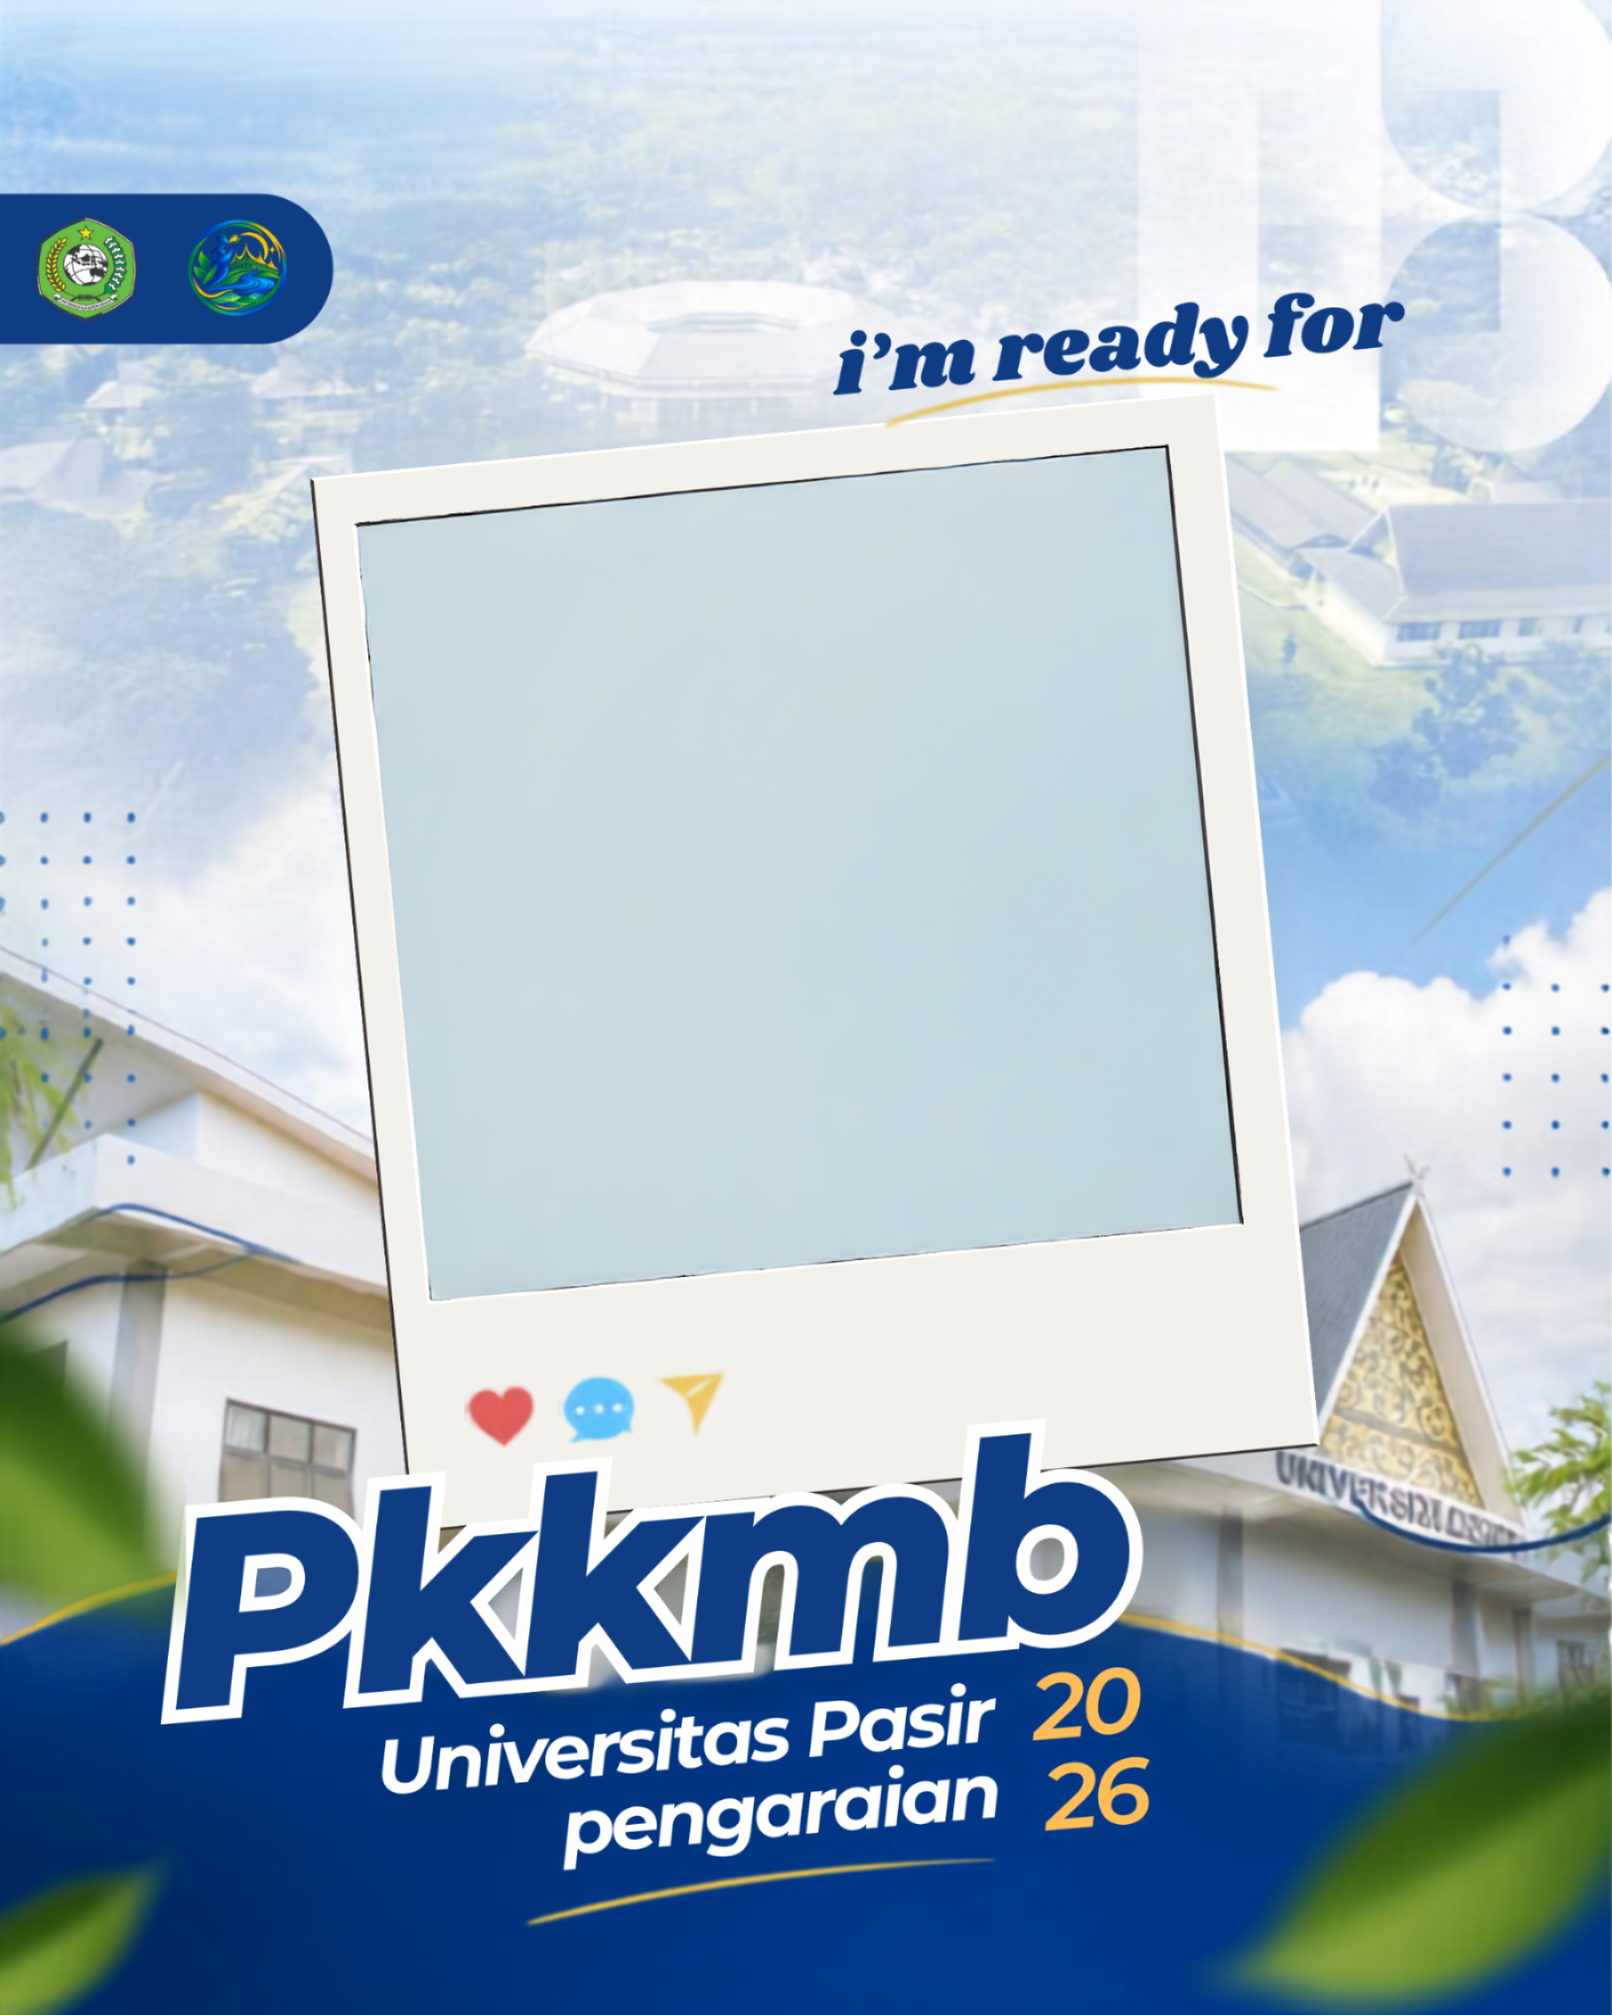
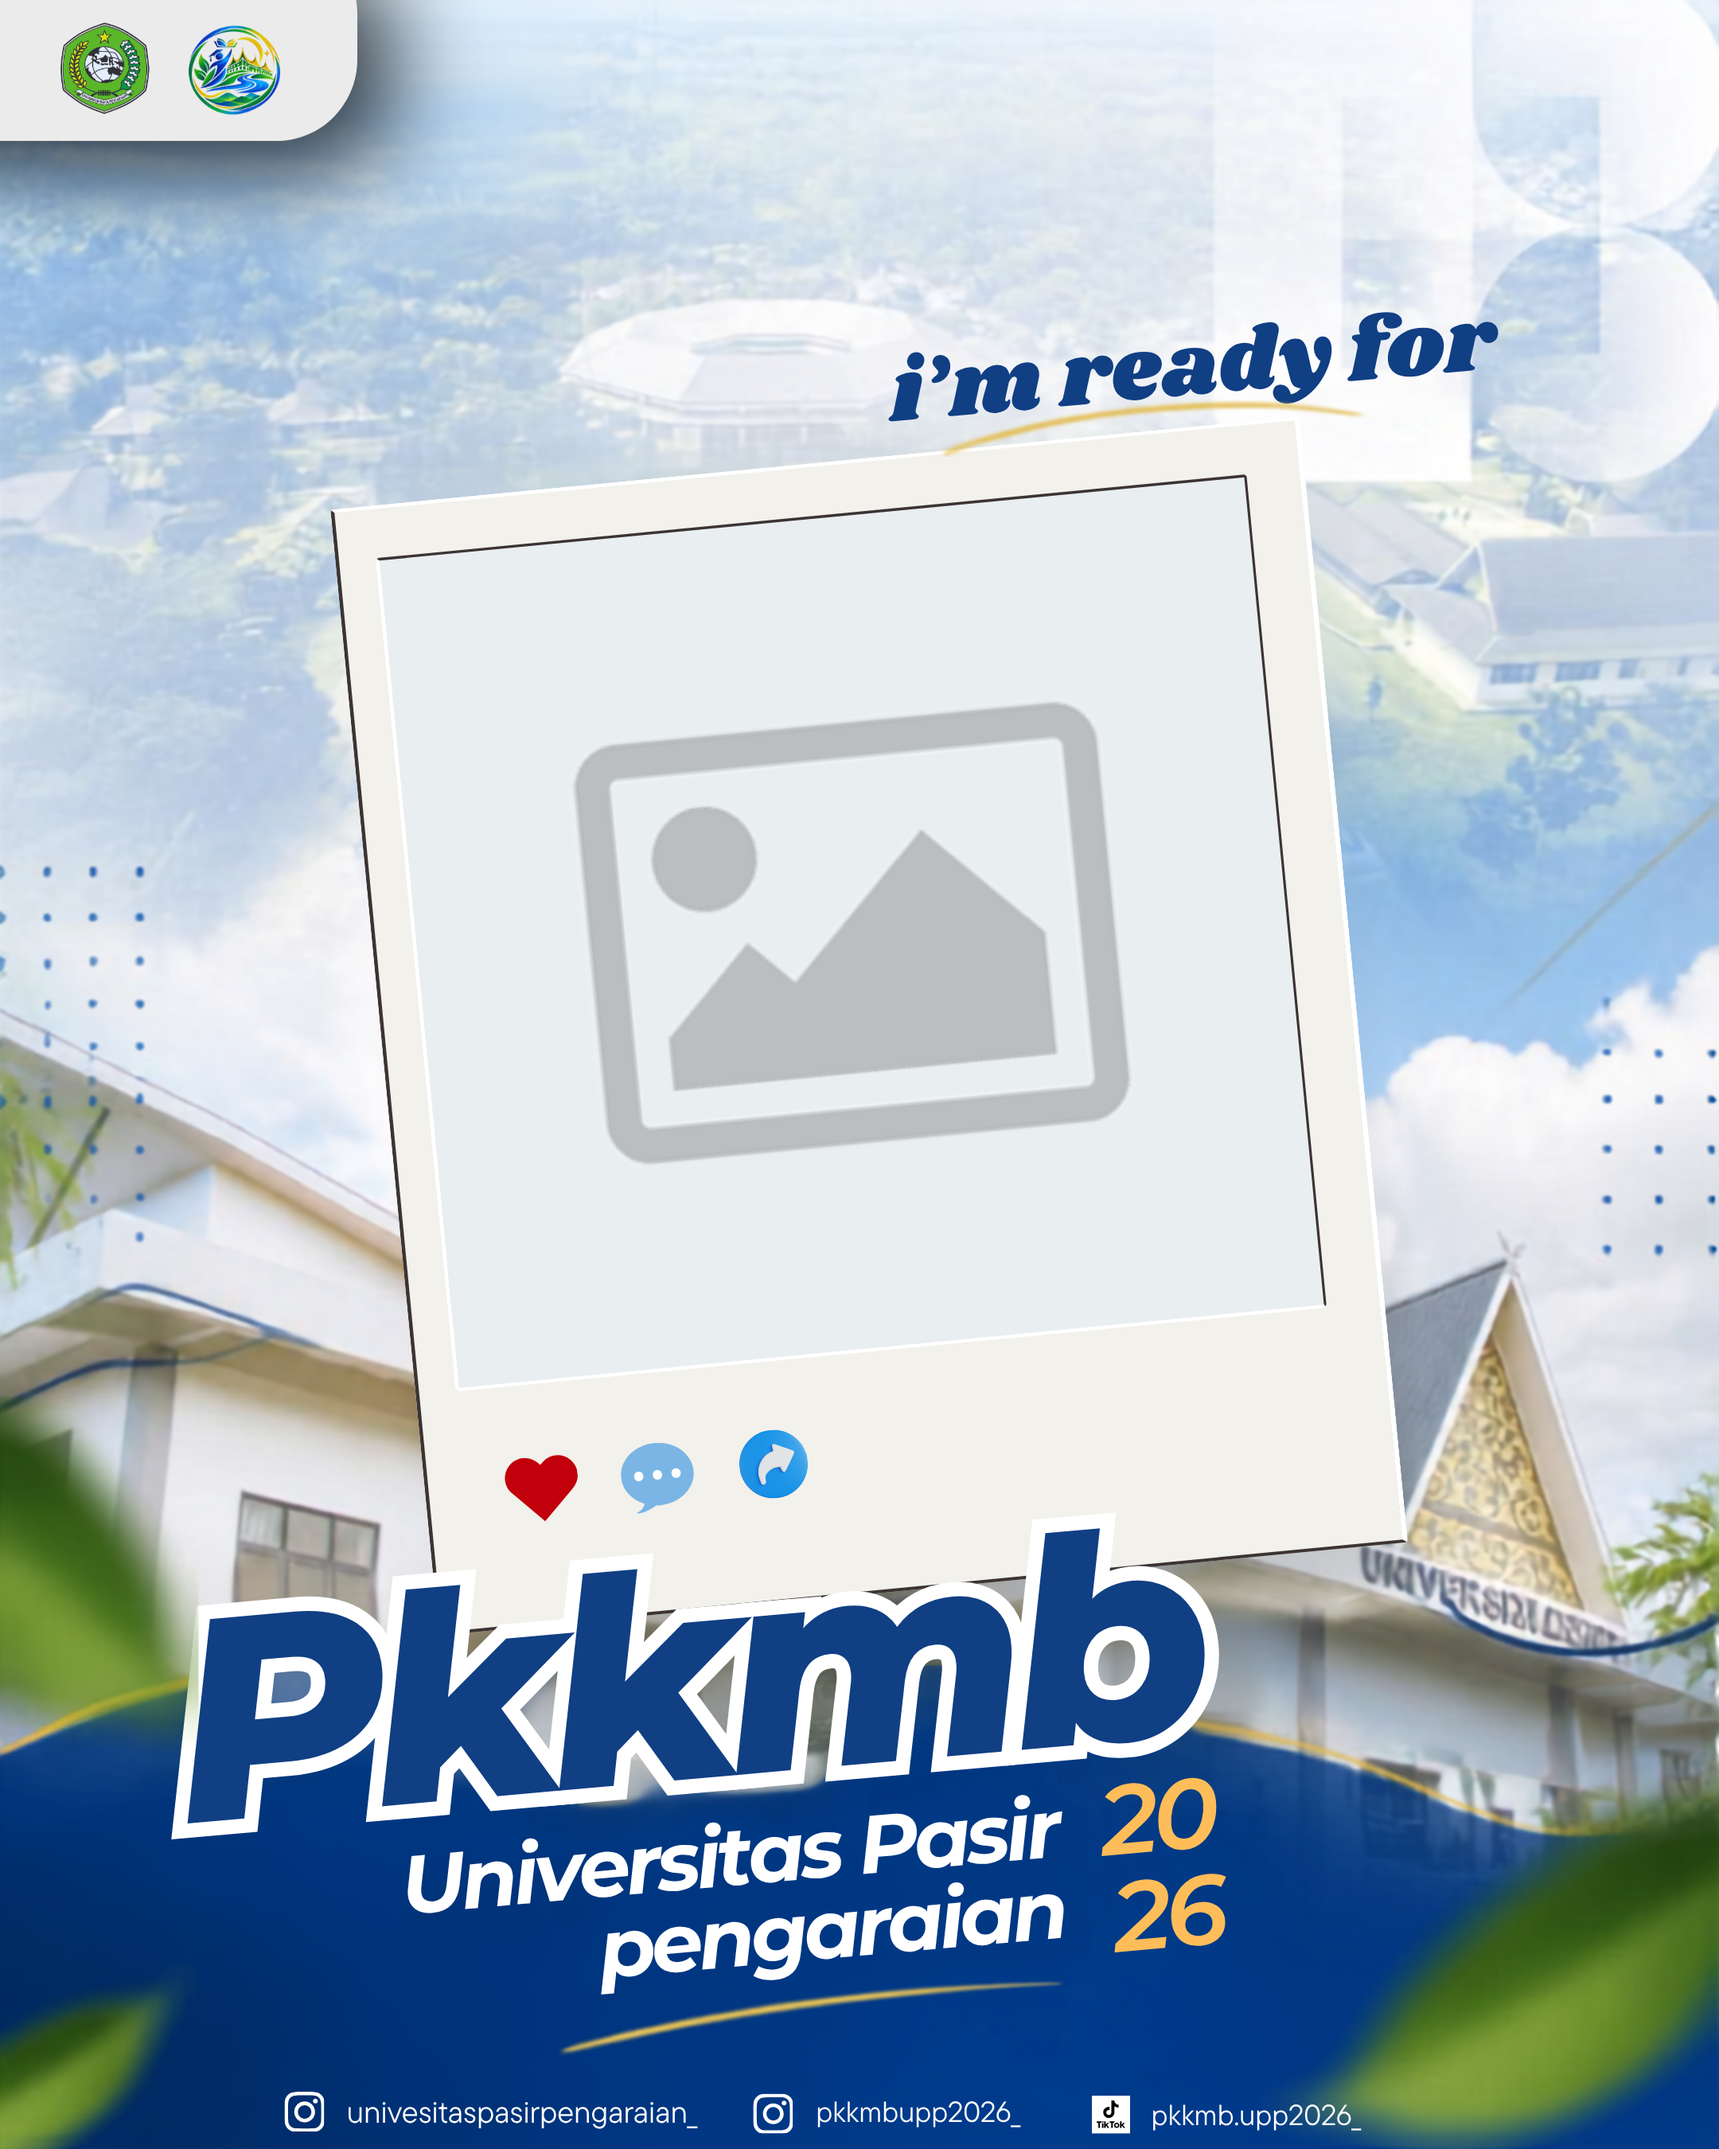
fix: update koordinat FRAME untuk template twibbon baru

diff --git a/assets/js/script.js b/assets/js/script.js
@@ -27,11 +27,11 @@ const inputProdi     = document.getElementById('inputProdi');
 // ── KONFIGURASI BINGKAI ───────────────────────
 // Semua nilai piksel sesuai resolusi asli template
 const FRAME = {
-    cx:     1000,
-    cy:     1103,
-    w:      1021,
-    h:      976,
-    rotate: -5.5,   // derajat
+    cx:     1069,
+    cy:     1169,
+    w:      1085,
+    h:      1036,
+    rotate: -5.5,
 };
 
 const MAX_FILE_SIZE = 5 * 1024 * 1024; // 5 MB
